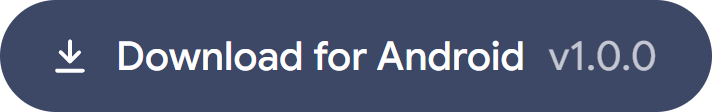
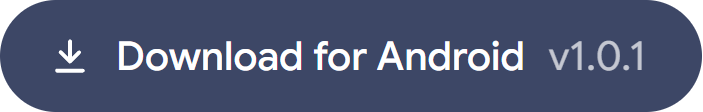
Update README for 1.0.1

diff --git a/README.md b/README.md
@@ -6,7 +6,7 @@
 </p>
 
 <p align="center">
-  <a href="https://github.com/TheWrathRF/aduster/releases/latest"><picture><source media="(prefers-color-scheme: dark)" srcset=".github/media/download-dark.png"><img src=".github/media/download-light.png" alt="Download for Android, v1.0.0" height="48"></picture></a>&nbsp;
+  <a href="https://github.com/TheWrathRF/aduster/releases/latest"><picture><source media="(prefers-color-scheme: dark)" srcset=".github/media/download-dark.png"><img src=".github/media/download-light.png" alt="Download for Android, v1.0.1" height="48"></picture></a>&nbsp;
   <a href="https://apps.obtainium.imranr.dev/redirect?r=obtainium://app/%7B%22id%22%3A%22app.aduster%22%2C%22url%22%3A%22https%3A%2F%2Fgithub.com%2FTheWrathRF%2Faduster%22%2C%22author%22%3A%22TheWrathRF%22%2C%22name%22%3A%22Aduster%22%7D"><picture><source media="(prefers-color-scheme: dark)" srcset=".github/media/obtainium-dark.png"><img src=".github/media/obtainium-light.png" alt="Get updates with Obtainium" height="48"></picture></a>
 </p>
 
@@ -104,7 +104,7 @@ lists on 29 October 2026.
 
 Android 13 or later, on a 64-bit ARM (arm64) phone.
 
-1. Download `aduster-1.0.0.apk` from the [latest release](https://github.com/TheWrathRF/aduster/releases/latest)
+1. Download `aduster-1.0.1.apk` from the [latest release](https://github.com/TheWrathRF/aduster/releases/latest)
    and open it on the phone. Allow installing from your browser or file manager when asked. If
    Play Protect warns about an app that is not from the Play Store, choose **Install anyway**.
 2. Open Aduster and tap **Turn on**. Android asks to allow a VPN connection: Aduster uses
@@ -123,9 +123,9 @@ apps from their GitHub releases, with the button at the top of this page.
 Compare the APK's SHA-256 with the `.sha256` file next to it on the release page:
 
 ```sh
-sha256sum aduster-1.0.0.apk                  # Linux
-shasum -a 256 aduster-1.0.0.apk              # macOS
-certutil -hashfile aduster-1.0.0.apk SHA256  # Windows
+sha256sum aduster-1.0.1.apk                  # Linux
+shasum -a 256 aduster-1.0.1.apk              # macOS
+certutil -hashfile aduster-1.0.1.apk SHA256  # Windows
 ```
 
 </details>
